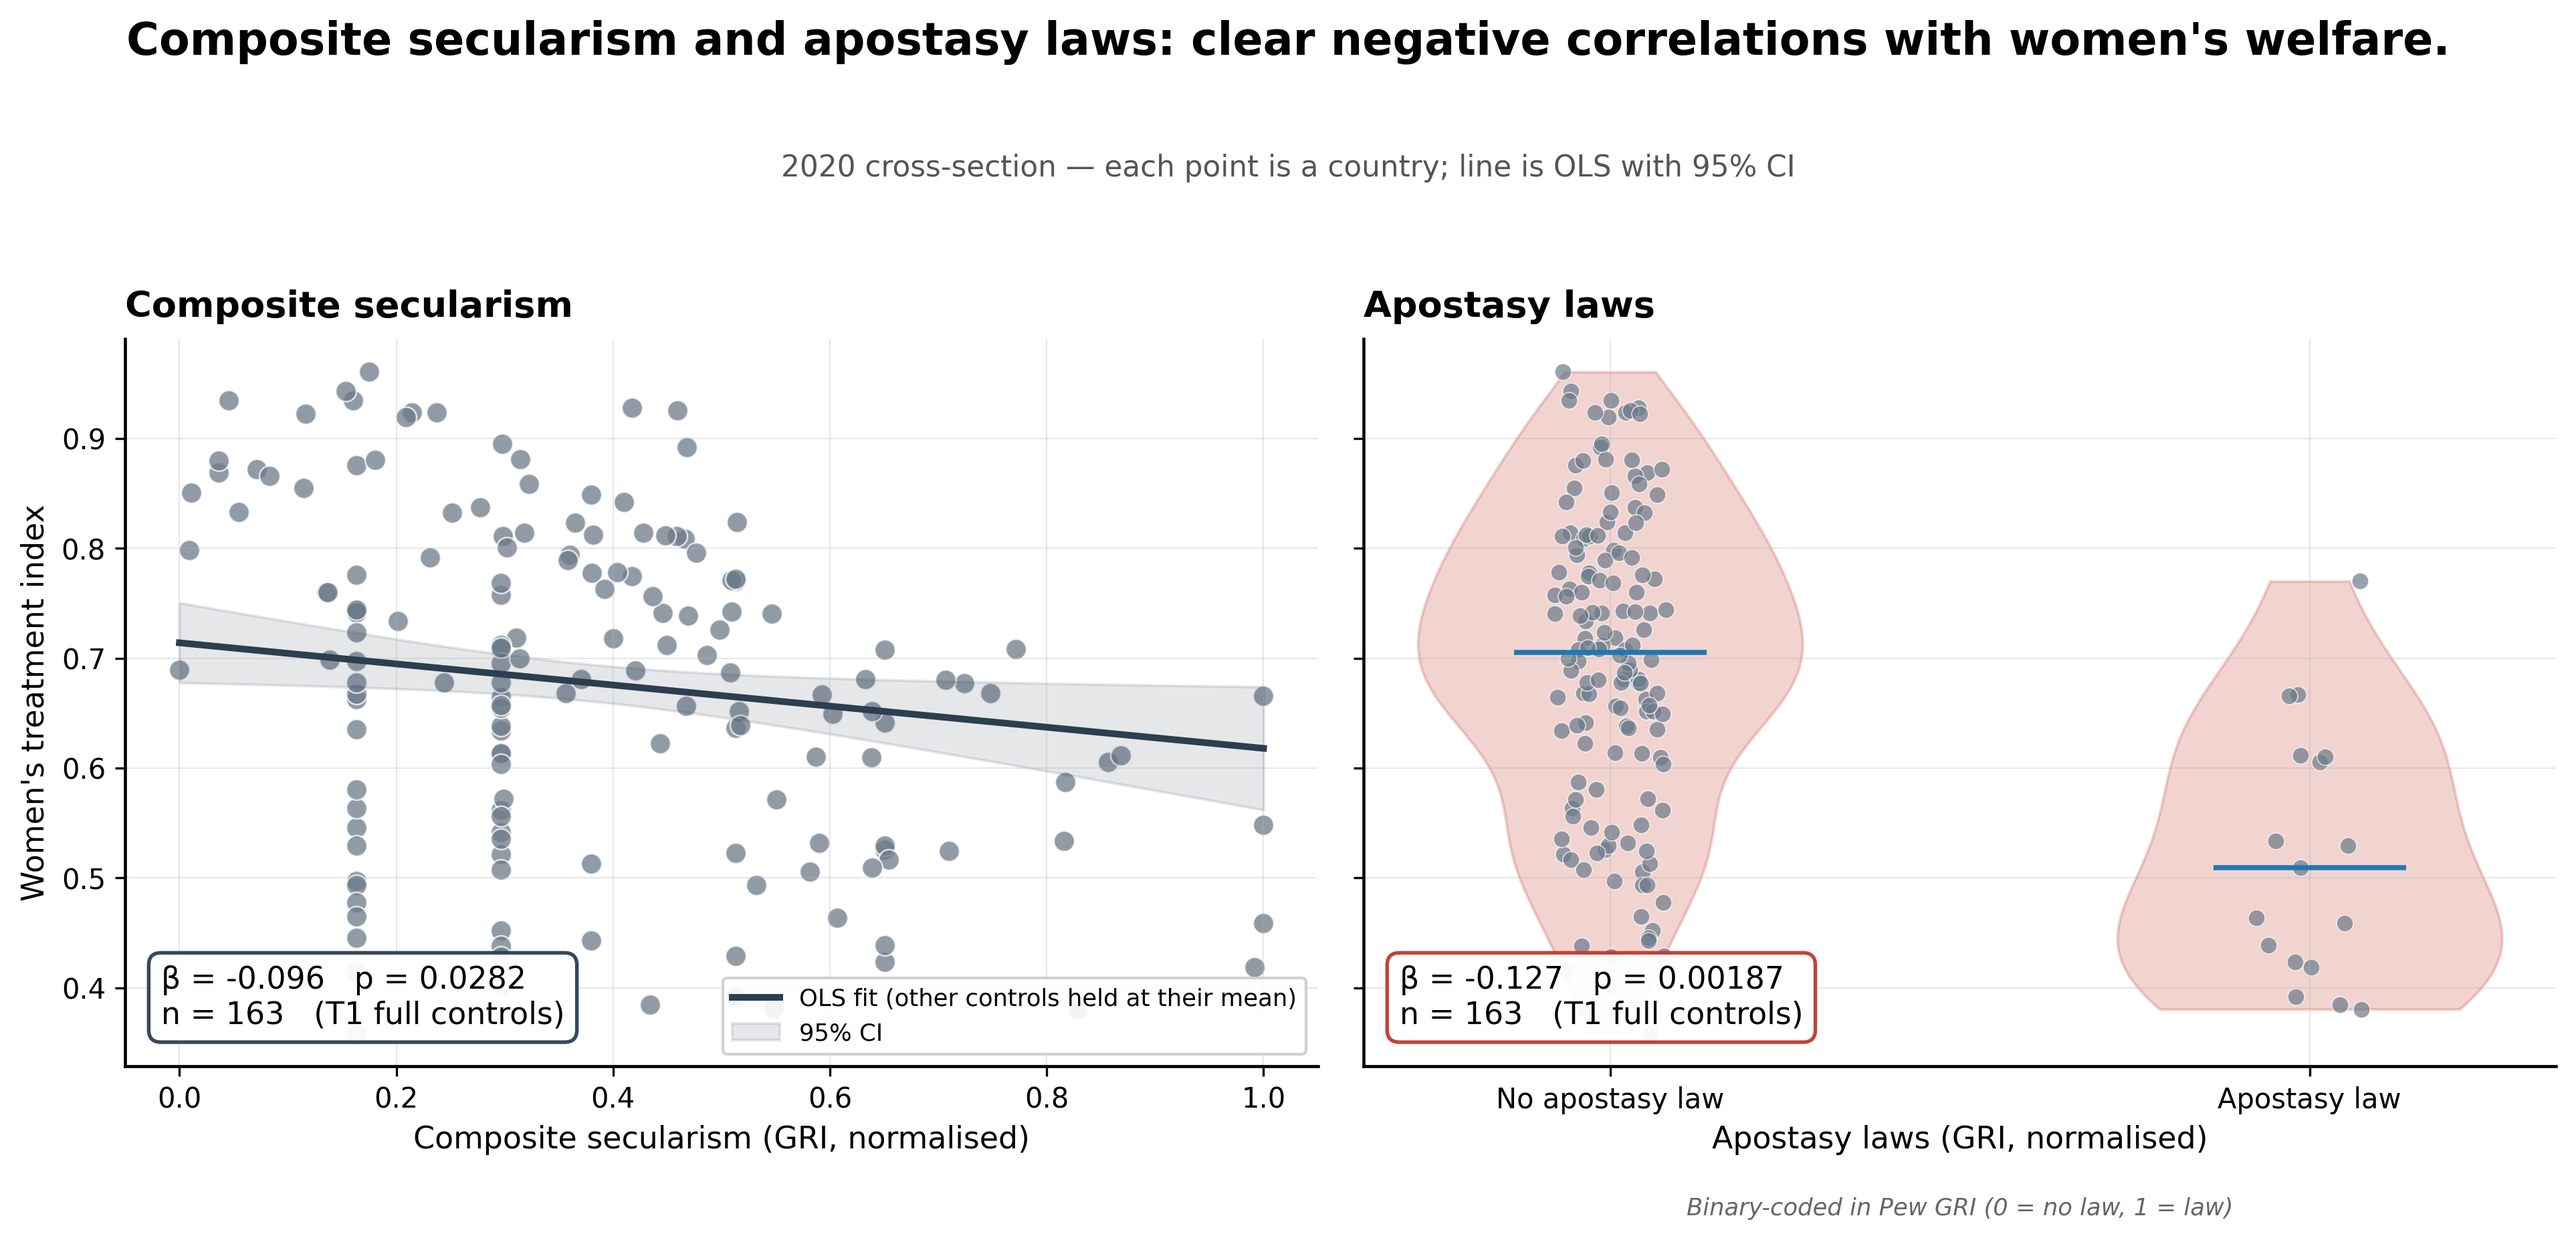
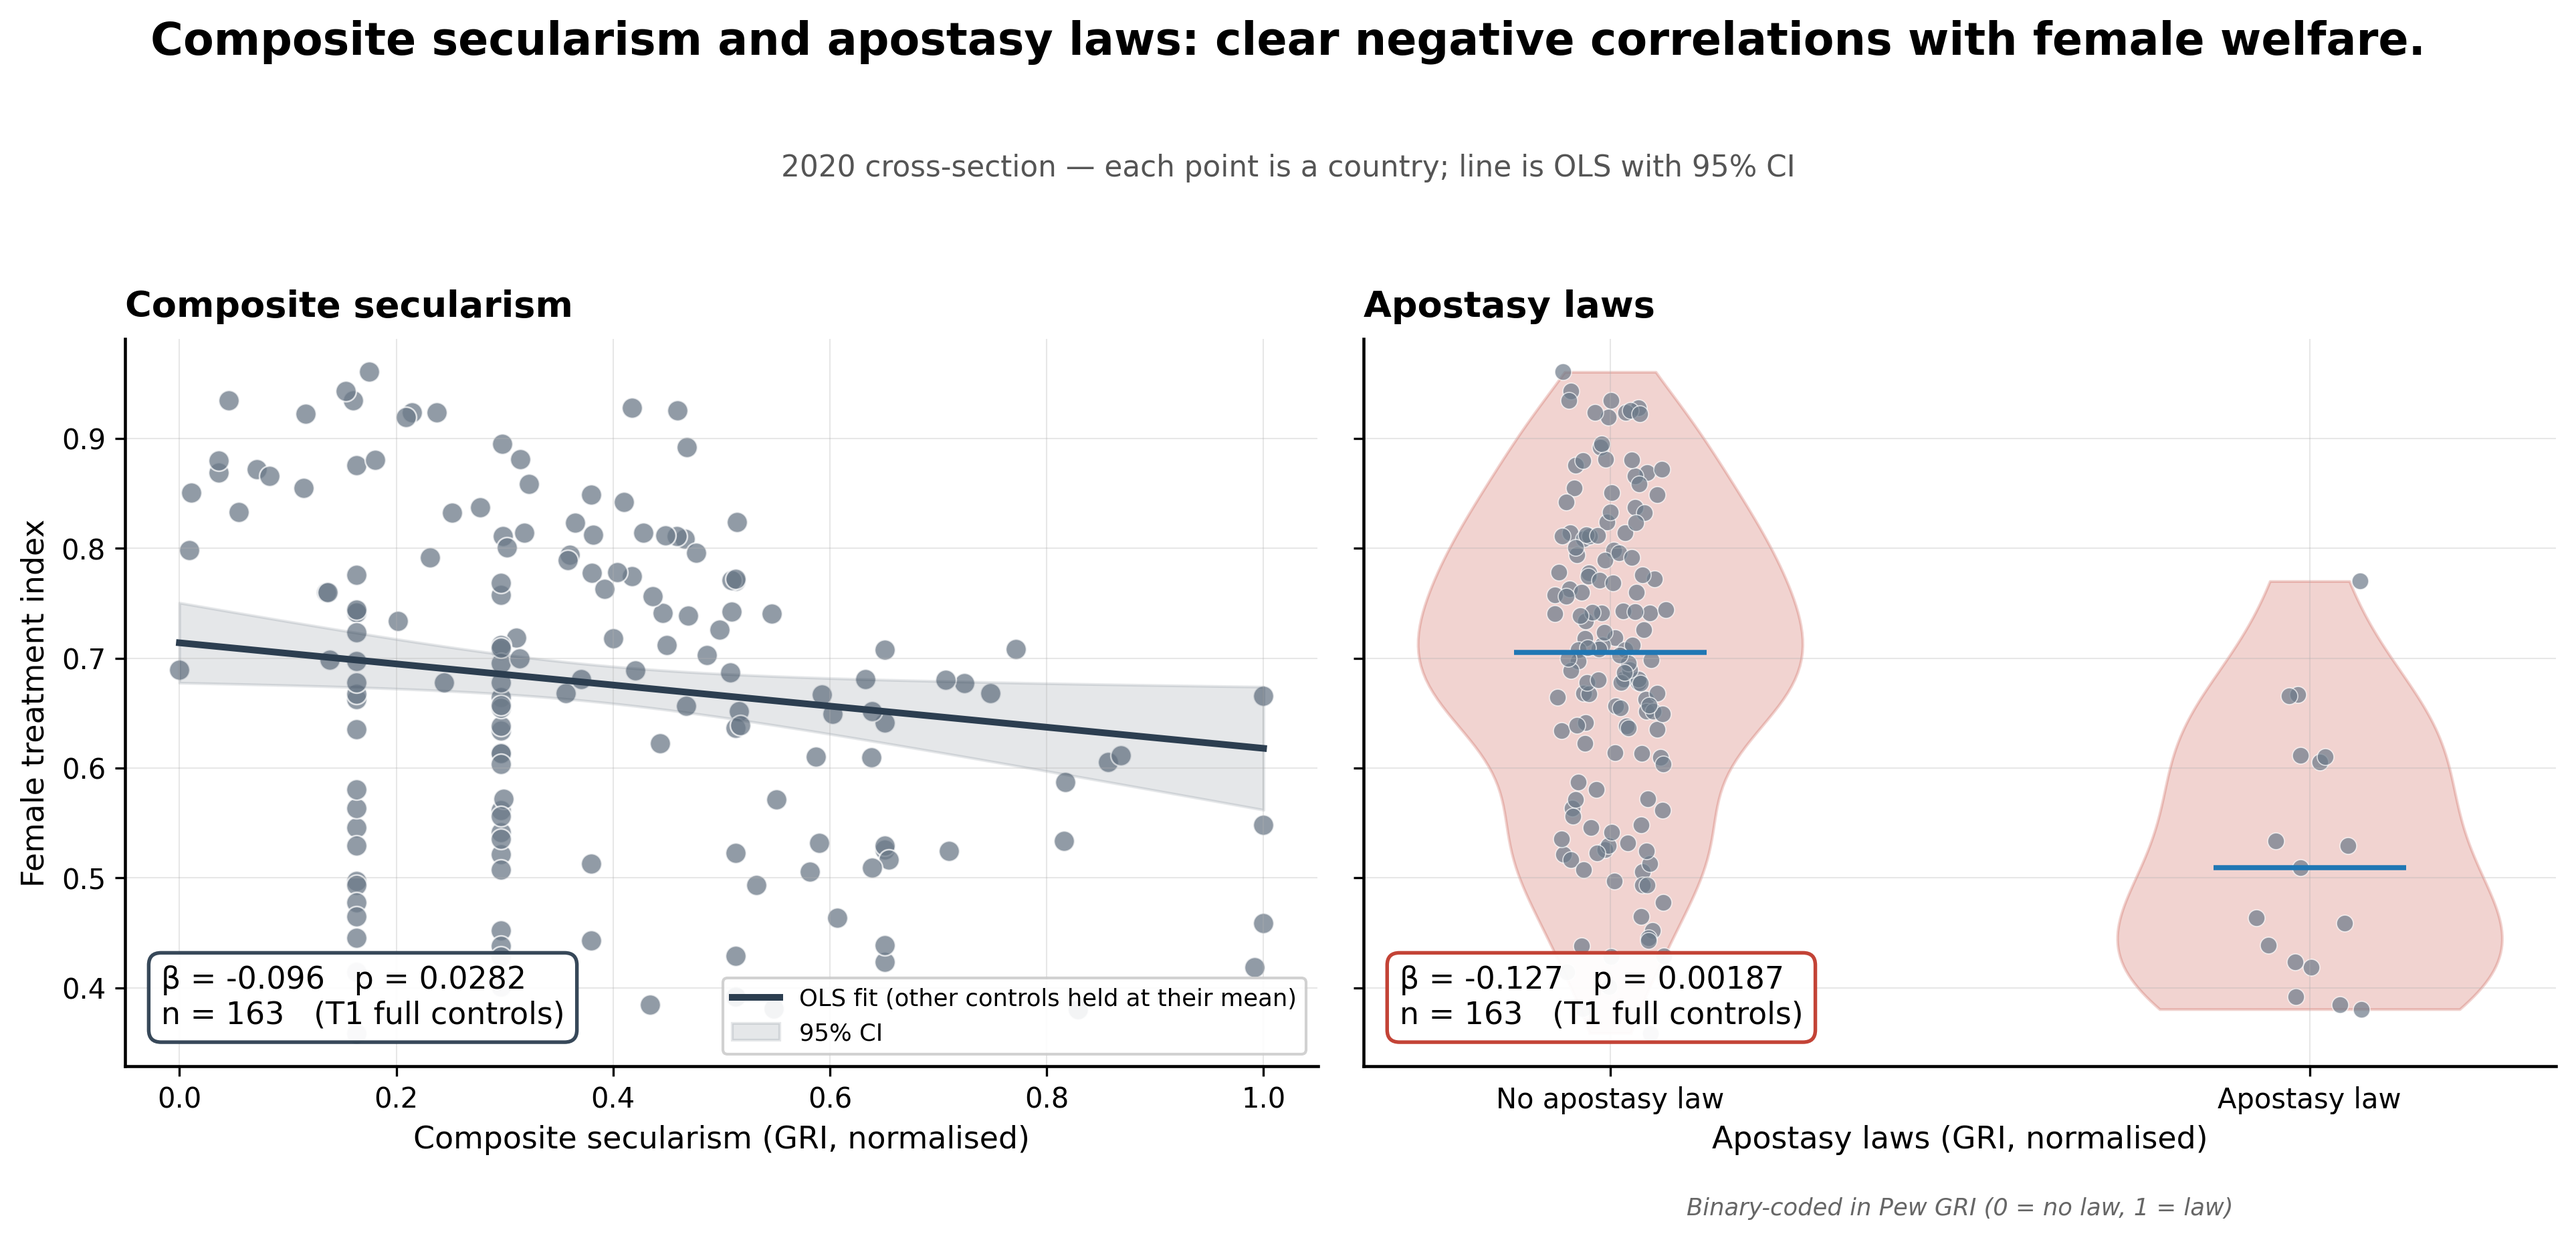
fix(figures): rename "Women's" → "Female" in labels/titles; tidy Oster annotation

Changed region(s): [[0.0312, 0.0, 0.9657, 0.0615], [0.0, 0.4302, 0.0312, 0.6453], [0.0, 0.676, 0.0312, 0.7067]]

diff --git a/analysis/run_plots.py b/analysis/run_plots.py
@@ -314,7 +314,7 @@ def plot_scatter(df: pd.DataFrame):
         ax.set_title(panel_title, fontsize=13, fontweight="bold", loc="left", pad=8)
         ax.grid(alpha=0.3, linewidth=0.5)
 
-    axes[0].set_ylabel("Women's treatment index")
+    axes[0].set_ylabel("Female treatment index")
     # Composite panel legend for the OLS-fit line and 95% CI band,
     # lower-right clear of the β/p box in lower-left. No regional legend on
     # the apostasy panel — dots are uniform neutral grey now.
@@ -332,7 +332,7 @@ def plot_scatter(df: pd.DataFrame):
     )
 
     fig.suptitle(
-        "Composite secularism and apostasy laws: clear negative correlations with women's welfare.",
+        "Composite secularism and apostasy laws: clear negative correlations with female welfare.",
         fontsize=16, fontweight="bold", y=1.06,
     )
     fig.text(
@@ -651,7 +651,7 @@ def plot_placebo():
     df = pd.read_csv(csv)
 
     label_map = {
-        "P6_placebo_wbl_treatment_index": "Women's\ntreatment index",
+        "P6_placebo_wbl_treatment_index": "Female\ntreatment index",
         "P6_placebo_wdi_lifexpf_norm": "Female life\nexpectancy",
         "P6_placebo_wdi_lfpf_norm":    "Female labour\nforce part.",
         "P6_placebo_lifexpm_norm":     "Male life\nexpectancy",
@@ -717,7 +717,7 @@ def plot_placebo():
     ax.set_ylabel("Coefficient on apostasy laws\n(Panel FE, clustered SE)")
 
     fig.suptitle(
-        "Apostasy laws harm women, not men",
+        "Apostasy laws harm females, not males",
         fontsize=16, fontweight="bold", y=1.00,
     )
     ax.set_title(
@@ -950,7 +950,7 @@ def plot_oster_sensitivity():
         ax.annotate(
             f"δ = {d22['delta']:.1f} at Rmax = 2.2×\n"
             f"Unobservables would need to be\n"
-            f"{d22['delta']:.0f}× stronger than all controls",
+            f"{d22['delta']:.1f}× stronger than all controls",
             xy=(d22["rmax_mult"], d22["delta_clipped"]),
             xytext=(box_x, box_y),
             fontsize=11, ha="center", va="center",
@@ -1395,7 +1395,7 @@ def plot_between_within(df: pd.DataFrame):
 
     ax.set_xlabel("Composite secularism (normalised, higher = more religious)",
                   fontsize=11)
-    ax.set_ylabel("Women's treatment index", fontsize=11)
+    ax.set_ylabel("Female treatment index", fontsize=11)
     ax.grid(alpha=0.3, linewidth=0.5)
     _narrative_title(
         ax,
